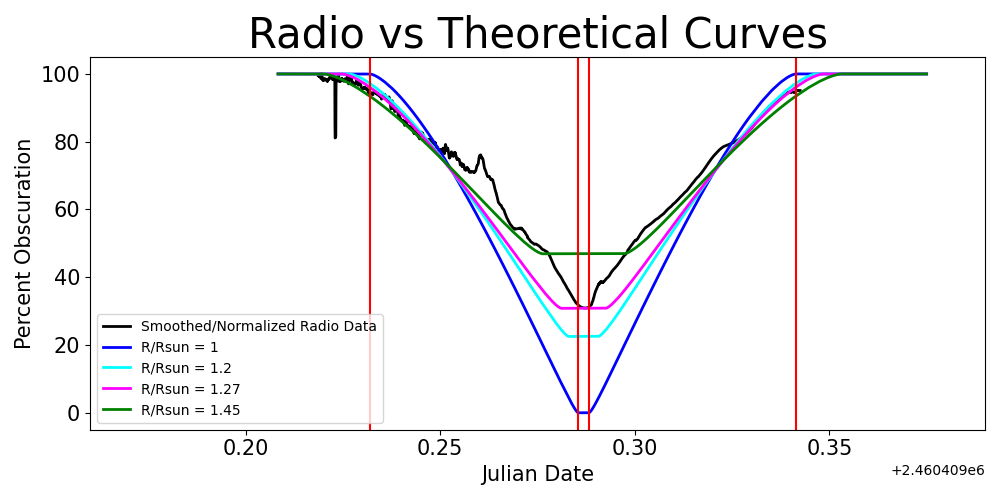
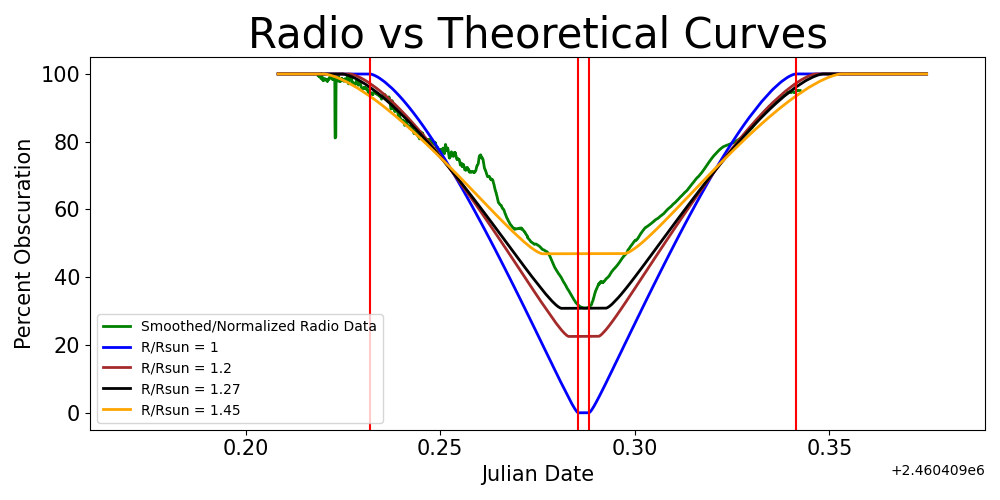
Updated graph for RadiovsTheoretical

diff --git a/Comparison/Radio-Theoretical-Comparison.py b/Comparison/Radio-Theoretical-Comparison.py
@@ -54,28 +54,28 @@ for i in range(len(date)):
         #print("found 1st index", index_1st)
         break
 
-#Finds 2nd contact index
+# Finds 2nd contact index
 for i in range(len(date)):
     if (contact2nd - date[i]) < epsilon:
         index_2nd = i
         #print("found 2nd index", index_2nd)
         break
 
-#Finds 3rd contact index
+# Finds 3rd contact index
 for i in range(len(date)):
     if (contact3rd - date[i]) < epsilon:
         index_3rd = i
         #print("found 3rd index", index_3rd)
         break
 
-#Finds 4th contact index
+# Finds 4th contact index
 for i in range(len(date)):
     if (contact4th - date[i]) < epsilon:
         index_4th = i
         #print("found 4th index", index_4th)
         break
 
-#Finds final data index
+# Finds final data index
 for i in range(len(date)):
     if (final - date[i]) < epsilon:
         index_final = i
@@ -102,15 +102,15 @@ post_average = sum/dif
 # Calculates how much the last values in the data need to be adjusted
 adj_num = pre_average - post_average
 
-#Creates the linear adjustment function
+# Creates the linear adjustment function
 m = adj_num/(date[-1]- date[index_1st])
 adjustment_function = []
 
-#This part sets the part of the function from 0 to 1st contact to 0 as to not effect that first part with the adjustment function.
+# This part sets the part of the function from 0 to 1st contact to 0 as to not effect that first part with the adjustment function.
 for i in range(0, index_1st):
     adjustment_function.append(0)
 
-#This part is the adjustment function, which affects the data from 1st contact to the last point of data.
+# This part is the adjustment function, which affects the data from 1st contact to the last point of data.
 for i in range(index_1st, index_final+1):
     adjustment_function.append(m*(date[i]- date[index_1st]))
 
@@ -121,7 +121,7 @@ def read_lines():
         for row in reader:
             yield [ float(i) for i in row ]
 
-#time and count lists
+# Time and count lists
 xy = list(read_lines())
 count = xy[0][:]
 time = xy[1][:]
@@ -185,13 +185,13 @@ plt.figure(figsize=(10, 5))
 widthline = 2
 
 # Smoothed and Normalized Radio Data
-plt.plot(date, normalization(r_pol_filter), label = "Smoothed/Normalized Radio Data", color = 'black', linewidth=widthline)#RADIO Smoothed/Normalization
+plt.plot(date, normalization(r_pol_filter), label = "Smoothed/Normalized Radio Data", color = 'green', linewidth=widthline)#RADIO Smoothed/Normalization
 
 # Theoretical Plots
 plt.plot(rsun_1[:,0], 100*rsun_1[:,1], label = "R/Rsun = 1", color = "blue", linewidth=widthline)
-plt.plot(rsun_1p20[:,0], 100*rsun_1p20[:,1], label = "R/Rsun = 1.2", color = "cyan", linewidth=widthline)
-plt.plot(rsun_1p27[:,0], 100*rsun_1p27[:,1], label = "R/Rsun = 1.27", color = "magenta", linewidth=widthline)
-plt.plot(rsun_1p45[:,0], 100*rsun_1p45[:,1], label = "R/Rsun = 1.45", color = "green", linewidth=widthline)
+plt.plot(rsun_1p20[:,0], 100*rsun_1p20[:,1], label = "R/Rsun = 1.2", color = "brown", linewidth=widthline)
+plt.plot(rsun_1p27[:,0], 100*rsun_1p27[:,1], label = "R/Rsun = 1.27", color = "black", linewidth=widthline)
+plt.plot(rsun_1p45[:,0], 100*rsun_1p45[:,1], label = "R/Rsun = 1.45", color = "orange", linewidth=widthline)
 
 
 plt.axvline(x = date[index_1st], color = 'r', linestyle = '-') #1st contact
@@ -199,13 +199,13 @@ plt.axvline(x = date[index_2nd], color = 'r', linestyle = '-') #2nd contact
 plt.axvline(x = date[index_3rd], color = 'r', linestyle = '-') #3rd contact
 plt.axvline(x = date[index_4th], color = 'r', linestyle = '-') #4th contact
 
-#Design
+# Design
 titlesize = 30
 labelsize = 15
 ticksize = 15
 legendsize = 10
 
-plt.title("Radio Lightcurve Fitting", fontsize = titlesize)
+plt.title("Radio vs Theoretical Curves", fontsize = titlesize)
 plt.xlabel('Julian Date', fontsize = labelsize)
 plt.ylabel('Percent Obscuration', fontsize = labelsize)
 plt.xticks(fontsize = ticksize)
